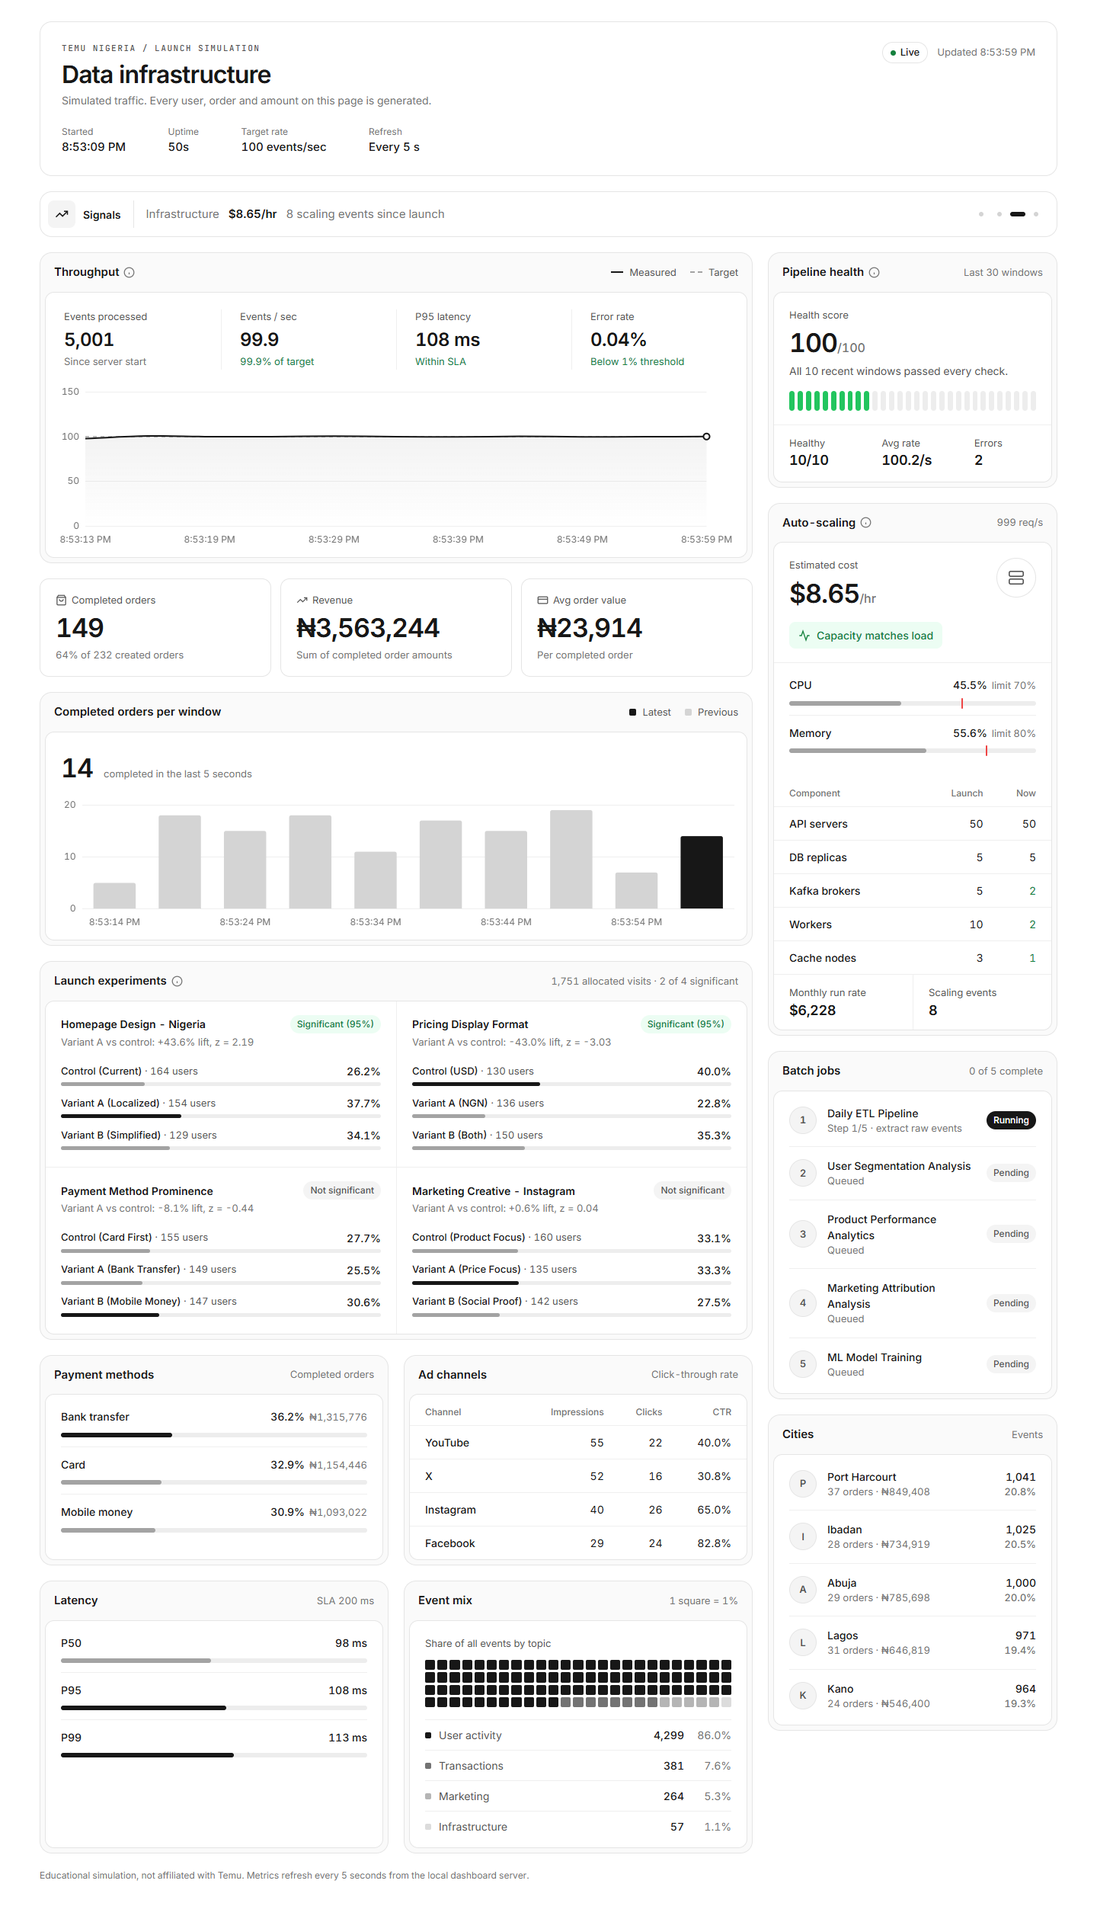
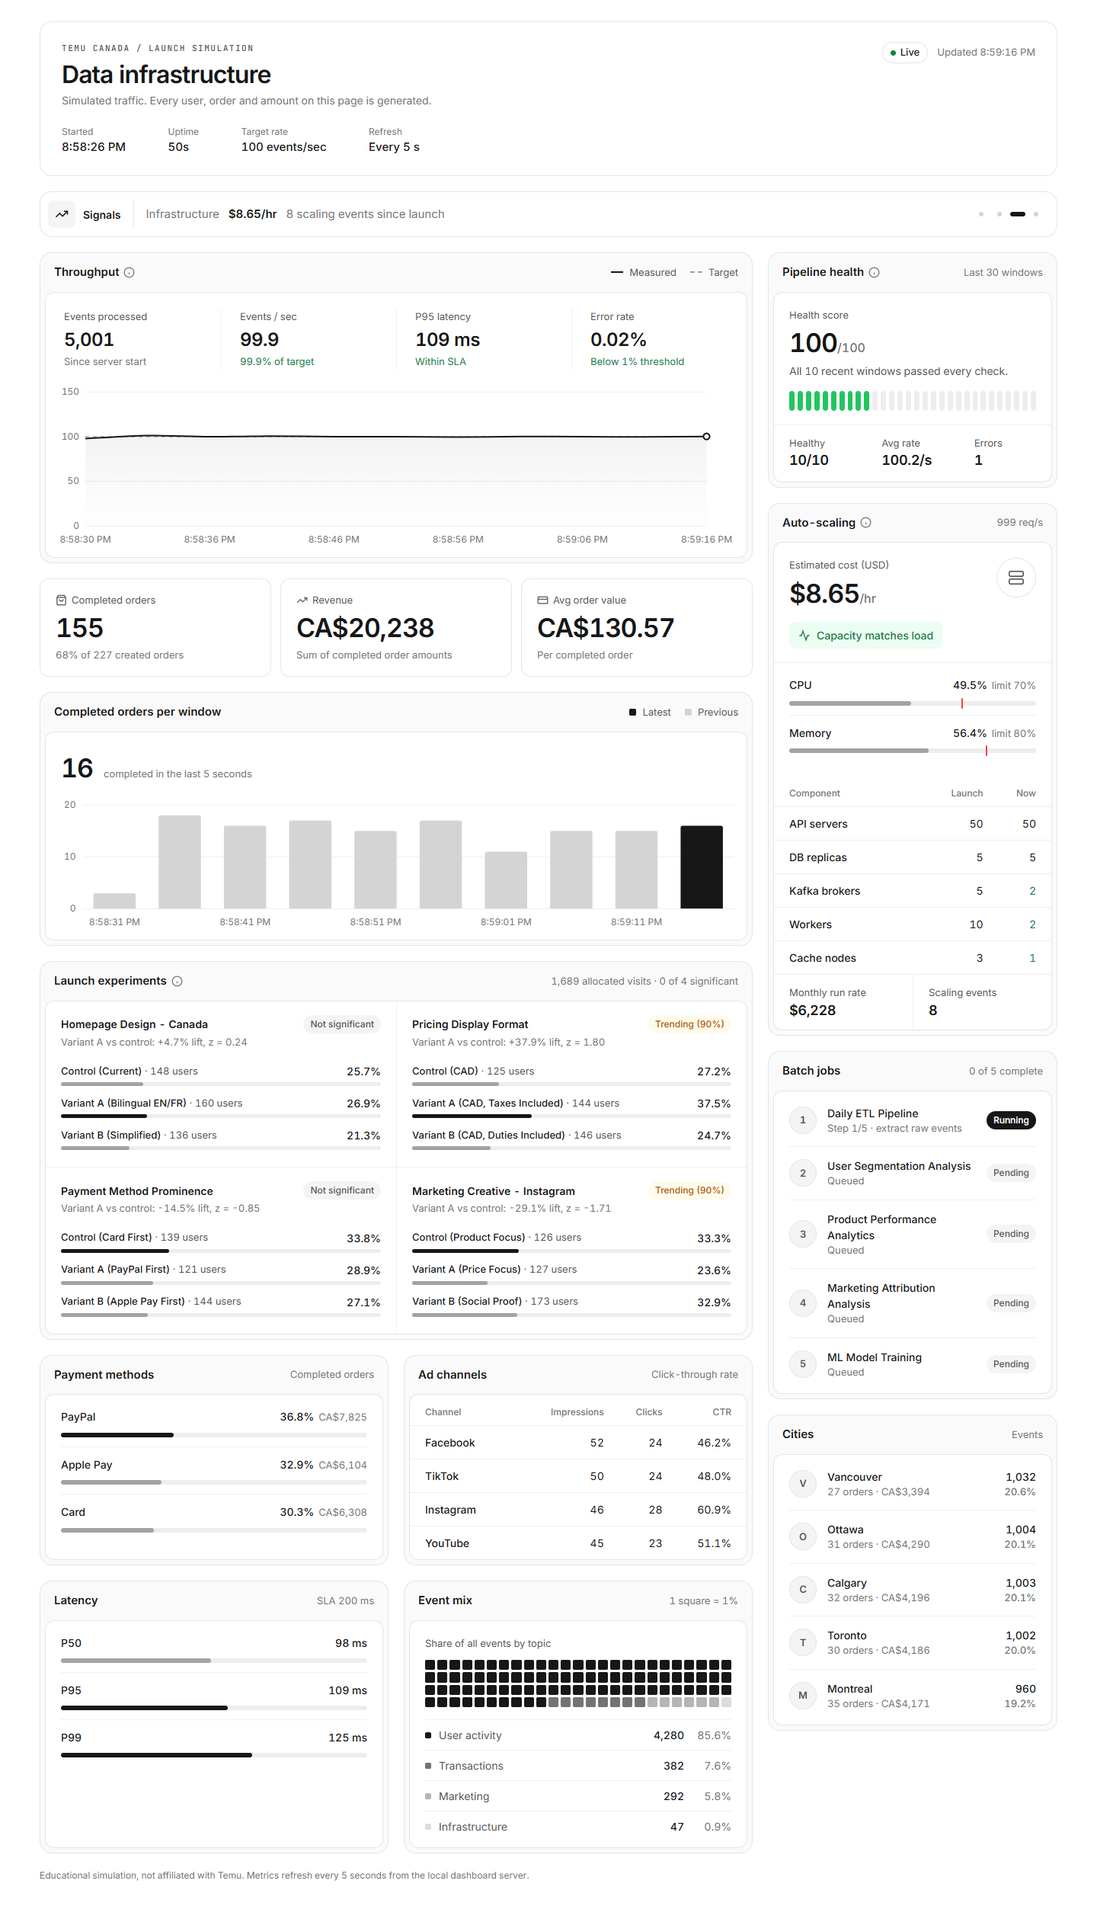
Reposition the simulation from Nigeria to Canada
- Events come from Toronto, Montreal, Vancouver, Calgary and Ottawa,
  with country CA and order amounts of CAD 10-250
- Payment methods are card, PayPal and Apple Pay; TikTok replaces X
  among ad channels
- Launch experiments test a bilingual EN/FR homepage, CAD prices with
  taxes or duties included, and PayPal or Apple Pay first at checkout
- Dashboard shows CA$ amounts and labels infrastructure cost as USD
- Docs move to AWS ca-central-1 (Montreal) and ca-west-1 (Calgary)
  for data residency under PIPEDA and Quebec's Law 25, add Canadian
  localization notes, and size launch traffic for Canada

diff --git a/monitoring/dashboard.html b/monitoring/dashboard.html
@@ -393,7 +393,7 @@
     <main class="page">
         <header class="hero">
             <div>
-                <div class="eyebrow">Temu Nigeria / Launch simulation</div>
+                <div class="eyebrow">Temu Canada / Launch simulation</div>
                 <h1>Data infrastructure</h1>
                 <p>Simulated traffic. Every user, order and amount on this page is generated.</p>
                 <div class="facts-row">
@@ -480,7 +480,7 @@
                             <svg width="15" height="15" viewBox="0 0 24 24" fill="none" stroke="currentColor" stroke-width="2"><path d="m22 7-8.5 8.5-5-5L2 17"/><path d="M16 7h6v6"/></svg>
                             Revenue
                         </div>
-                        <div class="value lg" id="revenue">&#8358;0</div>
+                        <div class="value lg" id="revenue">CA$0</div>
                         <div class="note">Sum of completed order amounts</div>
                     </div>
                     <div class="tile">
@@ -488,7 +488,7 @@
                             <svg width="15" height="15" viewBox="0 0 24 24" fill="none" stroke="currentColor" stroke-width="2"><rect x="2" y="5" width="20" height="14" rx="2"/><path d="M2 10h20"/></svg>
                             Avg order value
                         </div>
-                        <div class="value lg" id="aov">&#8358;0</div>
+                        <div class="value lg" id="aov">CA$0</div>
                         <div class="note">Per completed order</div>
                     </div>
                 </div>
@@ -629,7 +629,7 @@
                     <div class="panel">
                         <div class="summary">
                             <div>
-                                <div class="label">Estimated cost</div>
+                                <div class="label">Estimated cost (USD)</div>
                                 <div class="value lg" id="costHourly">$0<small>/hr</small></div>
                                 <div class="chip" id="scalingChip">
                                     <svg width="16" height="16" viewBox="0 0 24 24" fill="none" stroke="currentColor" stroke-width="2"><path d="M22 12h-4l-3 9L9 3l-3 9H2"/></svg>
@@ -717,11 +717,11 @@
             processingWorkers: 'Workers',
             cacheNodes: 'Cache nodes'
         };
-        const PAYMENT_NAMES = { card: 'Card', bank_transfer: 'Bank transfer', mobile_money: 'Mobile money' };
-        const CHANNEL_NAMES = { instagram: 'Instagram', x: 'X', youtube: 'YouTube', facebook: 'Facebook' };
+        const PAYMENT_NAMES = { card: 'Card', paypal: 'PayPal', apple_pay: 'Apple Pay' };
+        const CHANNEL_NAMES = { instagram: 'Instagram', tiktok: 'TikTok', youtube: 'YouTube', facebook: 'Facebook' };
 
         const $ = id => document.getElementById(id);
-        const naira = n => '₦' + Math.round(n).toLocaleString();
+        const cad = (n, digits = 0) => 'CA$' + n.toLocaleString(undefined, { minimumFractionDigits: digits, maximumFractionDigits: digits });
         const dollars = n => '$' + n.toLocaleString(undefined, { minimumFractionDigits: 2, maximumFractionDigits: 2 });
         const humanize = s => s.replace(/_/g, ' ');
         const clock = d => d.toLocaleTimeString([], { hour: 'numeric', minute: '2-digit', second: '2-digit' });
@@ -986,15 +986,15 @@
             $('orders').textContent = business.ordersCompleted.toLocaleString();
             const completion = business.ordersCreated > 0 ? business.ordersCompleted / business.ordersCreated * 100 : 0;
             $('completion').textContent = `${completion.toFixed(0)}% of ${business.ordersCreated.toLocaleString()} created orders`;
-            $('revenue').textContent = naira(business.revenue);
-            $('aov').textContent = naira(business.averageOrderValue);
+            $('revenue').textContent = cad(business.revenue);
+            $('aov').textContent = cad(business.averageOrderValue, 2);
 
             const paidOrders = business.paymentMethods.reduce((s, m) => s + m.orders, 0) || 1;
             $('payments').innerHTML = business.paymentMethods.map((m, i) => `
                 <div class="bar-row">
                     <div class="bar-top">
                         <span class="bar-name">${PAYMENT_NAMES[m.name] || humanize(m.name)}</span>
-                        <span class="bar-val">${(m.orders / paidOrders * 100).toFixed(1)}%<span class="note">${naira(m.revenue)}</span></span>
+                        <span class="bar-val">${(m.orders / paidOrders * 100).toFixed(1)}%<span class="note">${cad(m.revenue)}</span></span>
                     </div>
                     <div class="track"><div class="fill ${i === 0 ? '' : 'muted'}" style="width:${m.orders / paidOrders * 100}%"></div></div>
                 </div>`).join('') || '<div class="bar-row note">No completed orders yet</div>';
@@ -1060,7 +1060,7 @@
                     <span class="avatar">${city.name[0]}</span>
                     <span class="who">
                         <div class="name">${city.name}</div>
-                        <div class="meta">${city.orders.toLocaleString()} orders · ${naira(city.revenue)}</div>
+                        <div class="meta">${city.orders.toLocaleString()} orders · ${cad(city.revenue)}</div>
                     </span>
                     <span class="amount">${city.events.toLocaleString()}<div class="meta">${(city.events / cityEvents * 100).toFixed(1)}%</div></span>
                 </li>`).join('');

diff --git a/analytics/ab-testing.js b/analytics/ab-testing.js
@@ -260,37 +260,37 @@ class ABTestingSimulator {
         this.isRunning = false;
     }
 
-    // Simulate Nigeria launch experiments
+    // Simulate Canada launch experiments
     initializeLaunchExperiments() {
-        console.log('\nInitializing A/B tests for Nigeria launch...\n');
+        console.log('\nInitializing A/B tests for Canada launch...\n');
 
         // Experiment 1: Homepage Design
         this.platform.createExperiment(
-            'homepage_design_ng',
-            'Homepage Design - Nigeria',
-            ['Control (Current)', 'Variant A (Localized)', 'Variant B (Simplified)'],
+            'homepage_design_ca',
+            'Homepage Design - Canada',
+            ['Control (Current)', 'Variant A (Bilingual EN/FR)', 'Variant B (Simplified)'],
             ['conversion_rate', 'engagement', 'revenue']
         );
 
         // Experiment 2: Pricing Display
         this.platform.createExperiment(
-            'pricing_display_ng',
+            'pricing_display_ca',
             'Pricing Display Format',
-            ['Control (USD)', 'Variant A (NGN)', 'Variant B (Both)'],
+            ['Control (CAD)', 'Variant A (CAD, Taxes Included)', 'Variant B (CAD, Duties Included)'],
             ['conversion_rate', 'revenue']
         );
 
         // Experiment 3: Payment Methods
         this.platform.createExperiment(
-            'payment_methods_ng',
+            'payment_methods_ca',
             'Payment Method Prominence',
-            ['Control (Card First)', 'Variant A (Bank Transfer)', 'Variant B (Mobile Money)'],
+            ['Control (Card First)', 'Variant A (PayPal First)', 'Variant B (Apple Pay First)'],
             ['conversion_rate', 'revenue']
         );
 
         // Experiment 4: Marketing Campaign
         this.platform.createExperiment(
-            'marketing_creative_ng',
+            'marketing_creative_ca',
             'Marketing Creative - Instagram',
             ['Control (Product Focus)', 'Variant A (Price Focus)', 'Variant B (Social Proof)'],
             ['click_through_rate', 'conversion_rate', 'revenue']
@@ -316,7 +316,7 @@ class ABTestingSimulator {
 
                     // 20% make purchase
                     if (behavior < 0.06) {
-                        const revenue = Math.random() * 50000 + 1000; // NGN 1,000 - 50,000
+                        const revenue = Math.random() * 240 + 10; // CAD 10 - 250
                         this.platform.trackConversion(experimentId, userId, 'revenue', revenue);
                     }
                 }
@@ -402,8 +402,8 @@ class ABTestingSimulator {
                     console.log(`      Traffic: ${variant.traffic.toLocaleString()}`);
                     console.log(`      Conversions: ${variant.conversions.toLocaleString()}`);
                     console.log(`      Conversion Rate: ${variant.conversionRate.toFixed(2)}%`);
-                    console.log(`      Revenue: ₦${variant.revenue.toLocaleString(undefined, { maximumFractionDigits: 0 })}`);
-                    console.log(`      Avg Revenue: ₦${variant.averageRevenue.toFixed(2)}`);
+                    console.log(`      Revenue: CA$${variant.revenue.toLocaleString(undefined, { maximumFractionDigits: 0 })}`);
+                    console.log(`      Avg Revenue: CA$${variant.averageRevenue.toFixed(2)}`);
                     console.log(`      Engagement: ${variant.engagement.toLocaleString()} (${variant.engagementRate.toFixed(2)}%)`);
                 });
 

diff --git a/pipelines/real-time-processor.js b/pipelines/real-time-processor.js
@@ -64,8 +64,8 @@ class RealTimeProcessor extends EventEmitter {
         const baseProps = {
             device: ['mobile', 'desktop', 'tablet'][Math.floor(Math.random() * 3)],
             os: ['iOS', 'Android', 'Windows', 'macOS'][Math.floor(Math.random() * 4)],
-            country: 'NG', // Nigeria
-            city: ['Lagos', 'Abuja', 'Port Harcourt', 'Kano', 'Ibadan'][Math.floor(Math.random() * 5)]
+            country: 'CA', // Canada
+            city: ['Toronto', 'Montreal', 'Vancouver', 'Calgary', 'Ottawa'][Math.floor(Math.random() * 5)]
         };
 
         switch (eventType) {
@@ -91,30 +91,30 @@ class RealTimeProcessor extends EventEmitter {
                 return {
                     ...baseProps,
                     orderId: `order_${Math.random().toString(36).substr(2, 9)}`,
-                    amount: (Math.random() * 50000).toFixed(2),
-                    currency: 'NGN',
+                    amount: (Math.random() * 240 + 10).toFixed(2), // CAD 10 - 250
+                    currency: 'CAD',
                     itemCount: Math.floor(Math.random() * 10) + 1
                 };
             case 'order.completed':
                 return {
                     ...baseProps,
                     orderId: `order_${Math.random().toString(36).substr(2, 9)}`,
-                    amount: (Math.random() * 50000).toFixed(2),
-                    currency: 'NGN',
-                    paymentMethod: ['card', 'bank_transfer', 'mobile_money'][Math.floor(Math.random() * 3)]
+                    amount: (Math.random() * 240 + 10).toFixed(2), // CAD 10 - 250
+                    currency: 'CAD',
+                    paymentMethod: ['card', 'paypal', 'apple_pay'][Math.floor(Math.random() * 3)]
                 };
             case 'ad.impression':
                 return {
                     ...baseProps,
                     campaignId: `campaign_${Math.floor(Math.random() * 100)}`,
-                    channel: ['instagram', 'x', 'youtube', 'facebook'][Math.floor(Math.random() * 4)],
+                    channel: ['instagram', 'tiktok', 'youtube', 'facebook'][Math.floor(Math.random() * 4)],
                     adId: `ad_${Math.floor(Math.random() * 1000)}`
                 };
             case 'ad.click':
                 return {
                     ...baseProps,
                     campaignId: `campaign_${Math.floor(Math.random() * 100)}`,
-                    channel: ['instagram', 'x', 'youtube', 'facebook'][Math.floor(Math.random() * 4)],
+                    channel: ['instagram', 'tiktok', 'youtube', 'facebook'][Math.floor(Math.random() * 4)],
                     ctr: (Math.random() * 5).toFixed(2) + '%'
                 };
             default:

diff --git a/demo.js b/demo.js
@@ -20,10 +20,10 @@ class DataInfrastructureDemo {
     // Run complete demo
     async runDemo() {
         console.log('\n' + '='.repeat(70));
-        console.log('TEMU NIGERIA LAUNCH - DATA INFRASTRUCTURE SIMULATION');
+        console.log('TEMU CANADA LAUNCH - DATA INFRASTRUCTURE SIMULATION');
         console.log('='.repeat(70));
         console.log('\nThis simulation demonstrates what Temu\'s data infrastructure');
-        console.log('preparation might have looked like before launching in Nigeria.\n');
+        console.log('preparation might have looked like before launching in Canada.\n');
 
         // Initialize components
         console.log('Initializing infrastructure components...');

diff --git a/README.md b/README.md
@@ -1,16 +1,16 @@
-# Temu Nigeria Launch: Data Infrastructure Simulation
+# Temu Canada Launch: Data Infrastructure Simulation
 
 > **Note:** This is an educational simulation, not Temu's real system. It is not affiliated with or endorsed by Temu or PDD Holdings. All events, users, orders and revenue are randomly generated, and the architecture is my own reconstruction of what a launch like this might need.
 
 ![Real-time monitoring dashboard](docs/dashboard.png)
 
-*The live dashboard (`npm run dashboard`) after about 50 seconds. Every panel is computed by the project's own modules: business figures from the event stream, cost and instance counts from the auto-scaler, experiment results from the A/B testing platform, and job status from the batch processor. All A/B variants share the same 30% conversion rate, so the "significant" results in the screenshot are false positives from small early samples, the kind of result a real launch team should not act on.*
+*The live dashboard (`npm run dashboard`) after about 50 seconds. Every panel is computed by the project's own modules: business figures from the event stream, cost and instance counts from the auto-scaler, experiment results from the A/B testing platform, and job status from the batch processor. All A/B variants share the same 30% conversion rate, so any "significant" or "trending" result is a false positive from small early samples, the kind of result a real launch team should not act on.*
 
 ## Overview
 
-When Temu launched in Nigeria, everyone saw the marketing on Instagram, X and YouTube. The less visible part was the data infrastructure: handling millions of users, real-time analytics and sudden traffic spikes from day one.
+When Temu launched in Canada, most people saw the advertising on Facebook, Instagram, YouTube and TikTok. The less visible part was the data infrastructure: handling millions of users across six time zones, real-time analytics, and sudden traffic spikes from day one, while keeping customer data in Canada.
 
-This project models that infrastructure in Node.js. It generates a realistic stream of user, transaction, marketing and infrastructure events and processes it in real time. It also auto-scales simulated infrastructure, runs A/B tests on launch decisions such as NGN vs USD pricing and mobile money vs card payments, and shows everything on a live dashboard.
+This project models that infrastructure in Node.js. It generates a realistic stream of user, transaction, marketing and infrastructure events from Toronto, Montreal, Vancouver, Calgary and Ottawa, priced in Canadian dollars, and processes it in real time. It also auto-scales simulated infrastructure, runs A/B tests on Canadian launch decisions such as a bilingual English/French homepage, showing prices with taxes or duties included, and PayPal or Apple Pay vs card checkout, and shows everything on a live dashboard.
 
 ## Results From a Sample Run
 
@@ -63,7 +63,7 @@ The simulation models these components in code. It does not run actual Kafka, Fl
 - **Alerting System**: PagerDuty/DataDog for anomaly detection
 
 ### 5. Infrastructure
-- **Multi-Region Deployment**: AWS/GCP with Nigeria-specific edge locations
+- **Multi-Region Deployment**: AWS ca-central-1 (Montreal) and ca-west-1 (Calgary), keeping customer data in Canada for PIPEDA and Quebec's Law 25
 - **Auto-scaling**: Kubernetes clusters with HPA
 - **Load Balancing**: Geographic routing for optimal latency
 - **Disaster Recovery**: Multi-AZ with automated failover
@@ -92,7 +92,7 @@ Batch job steps are timed like real jobs and take minutes each (ML training take
 ## Project Structure
 
 ```
-Temu-Nigeria-data-infrastructure-simulation/
+Temu-Canada-data-infrastructure-simulation/
 ├── README.md
 ├── OVERVIEW.md
 ├── HOW_IT_WORKS.md

diff --git a/OVERVIEW.md b/OVERVIEW.md
@@ -1,8 +1,8 @@
-# Temu Nigeria Launch: Data Infrastructure Overview
+# Temu Canada Launch: Data Infrastructure Overview
 
 ## What This Simulation Shows
 
-When Temu launched in Nigeria, their marketing was everywhere - Instagram, X (Twitter), YouTube. But behind the scenes, a massive data infrastructure was being prepared to handle:
+When Temu launched in Canada, their marketing was everywhere - Facebook, Instagram, YouTube, TikTok. But behind the scenes, a massive data infrastructure was being prepared to handle:
 
 - **Millions of users** from day one
 - **Real-time analytics** for instant decision-making
@@ -94,18 +94,27 @@ All user actions generate events that flow through:
 - **Processing Workers**: Scale based on event volume
 - **Cost Optimization**: Scale down during low-traffic periods
 
-## Nigeria-Specific Considerations
+## Canada-Specific Considerations
 
 ### Geographic Optimization
-- Edge locations in Lagos, Abuja, Port Harcourt
-- CDN for static content delivery
-- Localized pricing in NGN (Nigerian Naira)
-- Payment methods: Bank transfer, mobile money
+- Primary region AWS ca-central-1 (Montreal), secondary ca-west-1 (Calgary)
+- CDN edge locations in Toronto, Montreal and Vancouver
+- Six time zones (Newfoundland to Pacific), so batch jobs run after the last region's evening peak
+
+### Data Residency and Compliance
+- Customer data stays in Canadian regions to meet PIPEDA and Quebec's Law 25
+- Consent records stored alongside marketing events for CASL (Canada's anti-spam law)
+
+### Localization
+- Bilingual English/French storefront, required for shoppers in Quebec
+- Prices in CAD, with GST/HST/PST varying by province
+- Landed-cost pricing: shoppers expect duties and taxes shown before checkout
+- Payment methods: card, PayPal, Apple Pay
 
 ### Traffic Patterns
-- Expected Day 1: 500K users, 2M requests/hour
-- Week 1: 2M users, 10M requests/hour
-- Month 1: 5M users, 50M requests/hour
+- Expected Day 1: 250K users, 1M requests/hour
+- Week 1: 1M users, 5M requests/hour
+- Month 1: 3M users, 25M requests/hour
 
 ### Infrastructure Requirements
 - 200+ API server instances (auto-scale 50-500)

diff --git a/architecture/system-design.md b/architecture/system-design.md
@@ -1,4 +1,4 @@
-# Temu Nigeria Launch: System Design
+# Temu Canada Launch: System Design
 
 ## High-Level Architecture
 
@@ -65,10 +65,11 @@
 ## Key Design Decisions
 
 ### 1. Multi-Region Architecture
-- **Primary Region**: AWS us-east-1 (US)
-- **Secondary Region**: AWS eu-west-1 (Europe)
-- **Edge Locations**: CloudFront/CDN nodes in Lagos, Abuja, Port Harcourt
+- **Primary Region**: AWS ca-central-1 (Montreal)
+- **Secondary Region**: AWS ca-west-1 (Calgary)
+- **Edge Locations**: CloudFront/CDN nodes in Toronto, Montreal, Vancouver
 - **Database Replication**: Multi-master setup with eventual consistency
+- **Data Residency**: Both regions are in Canada, so customer data never leaves the country (PIPEDA, Quebec Law 25)
 
 ### 2. Data Ingestion Strategy
 - **Event-Driven Architecture**: All user actions as events
@@ -96,12 +97,12 @@
 - **Read Replicas**: Multiple read replicas for analytics queries
 - **Caching**: Multi-layer caching (CDN → Redis → Application)
 
-## Capacity Planning (Nigeria Launch)
+## Capacity Planning (Canada Launch)
 
 ### Expected Traffic
-- **Day 1**: 500K users, 2M requests/hour
-- **Week 1**: 2M users, 10M requests/hour
-- **Month 1**: 5M users, 50M requests/hour
+- **Day 1**: 250K users, 1M requests/hour
+- **Week 1**: 1M users, 5M requests/hour
+- **Month 1**: 3M users, 25M requests/hour
 
 ### Infrastructure Requirements
 - **API Servers**: 200 instances (auto-scale 50-500)

diff --git a/HOW_IT_WORKS.md b/HOW_IT_WORKS.md
@@ -56,7 +56,7 @@ class RealTimeProcessor extends EventEmitter {
     userId: "user_12345",
     properties: {
         device: "mobile",
-        city: "Lagos",
+        city: "Toronto",
         element: "product_card",
         productId: "prod_456"
     }
@@ -194,10 +194,10 @@ class ABTestingPlatform {
 
 **Example Experiment:**
 ```
-Experiment: "Homepage Design - Nigeria"
+Experiment: "Homepage Design - Canada"
 Variants:
   - Control (Current): 50 users, 15 conversions (30%)
-  - Variant A (Localized): 52 users, 20 conversions (38.5%)
+  - Variant A (Bilingual EN/FR): 52 users, 20 conversions (38.5%)
   
 Result: Variant A has 8.5% lift, 95% confidence [YES]
 ```
